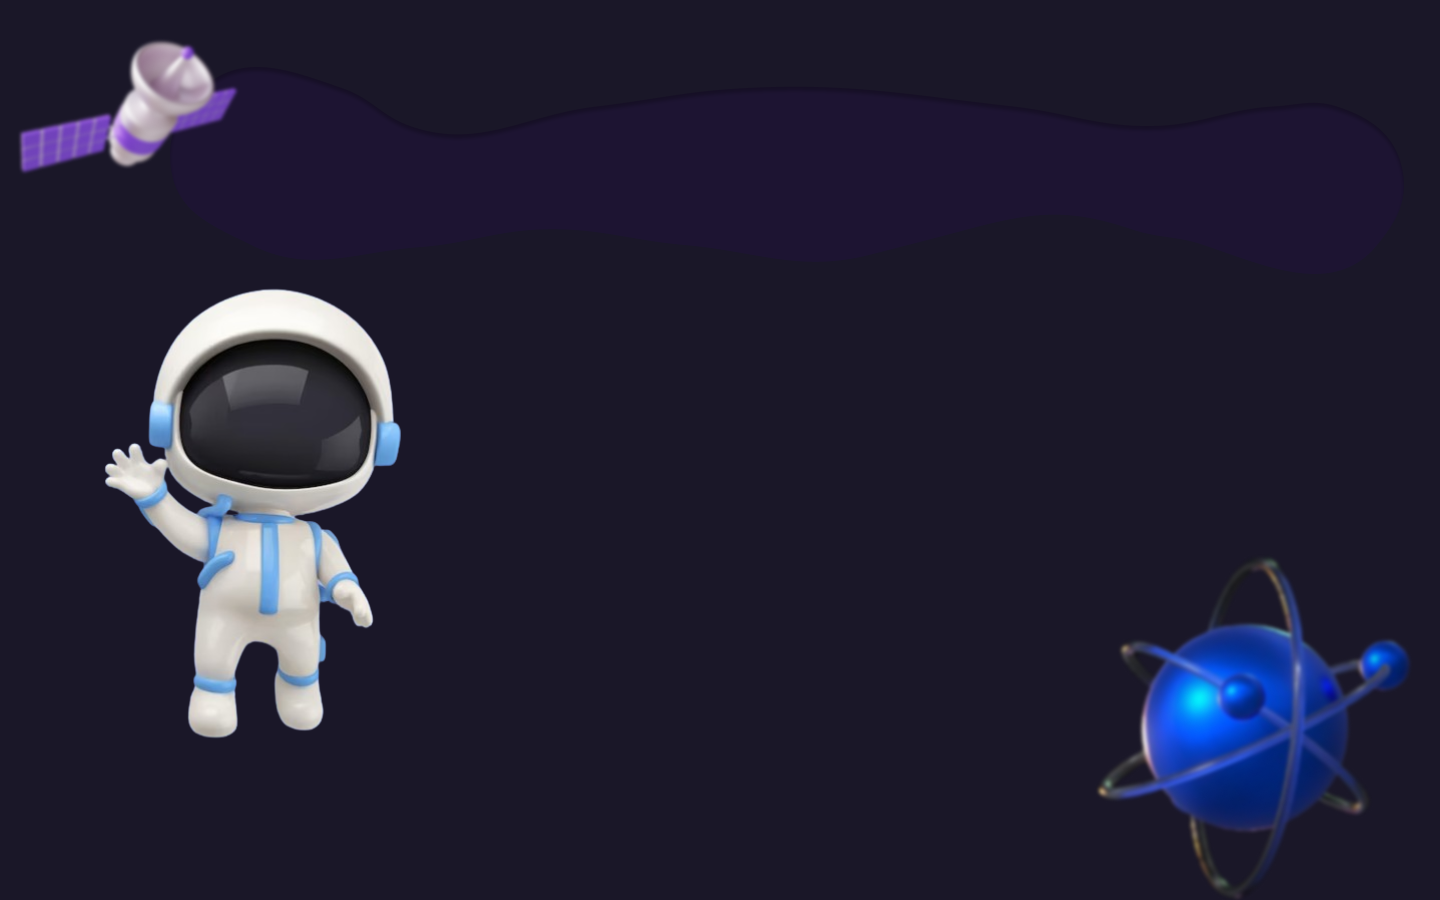
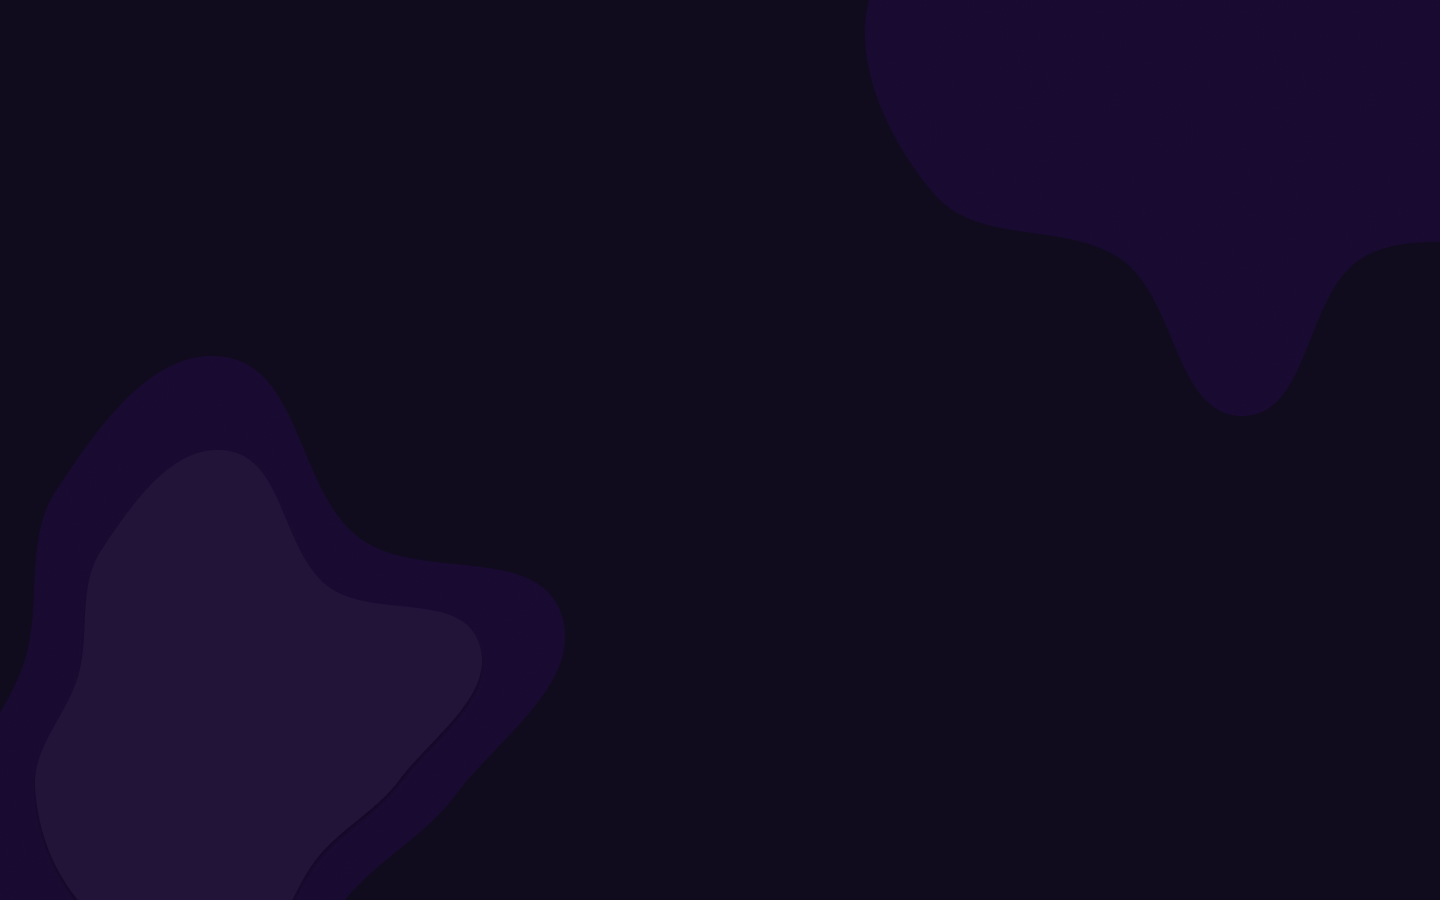
Fix background images and add boy companion in questions.cpp

Changed region(s): [[0.0625, 0.3111, 0.2812, 0.84], [0.75, 0.6222, 1.0, 0.9956], [0.0, 0.0311, 0.1875, 0.1867]]

diff --git a/Spacio/src/questions.cpp b/Spacio/src/questions.cpp
@@ -34,6 +34,7 @@ void questions(bool boyVoice, bool girlVoice)
     Font boldPoppins = LoadFontEx("../assets/fonts/Poppins-Bold.ttf", 1000, NULL, 0);
 
     Texture2D background = LoadTexture("../assets/images/questionsBackground.png");
+    Texture2D companion = LoadTexture("../assets/images/boyCompanion.png");
 
     Rectangle planetButton = { 648, 500, 150, 40 };
     Rectangle higgsButton = { 648, 580, 180, 40 };
@@ -80,6 +81,7 @@ void questions(bool boyVoice, bool girlVoice)
         ClearBackground(RAYWHITE);
 
         DrawTexture(background, 0, 0, RAYWHITE);
+        if(boyVoice) DrawTexture(companion, 50, 250, RAYWHITE);
 
         DrawTextEx(boldPoppins, "Welcome, choose what you want to learn about", Vector2{ 250, 160 }, 50, 5, WHITE);
 

diff --git a/Spacio/src/mainMenu.cpp b/Spacio/src/mainMenu.cpp
@@ -11,11 +11,7 @@ void mainMenu()
 
     InitWindow(screenWidth, screenHeight, "Spacio");
 
-    //gameQuiz();
-    //SetTargetFPS(60);
-    //HiggsFieldGame(false);
-    //pickPlanet();
-
-    //intro();
-    spaceShip();
+    //HiggsFieldGame(true);
+    intro();
+    //spaceShip();
 }
